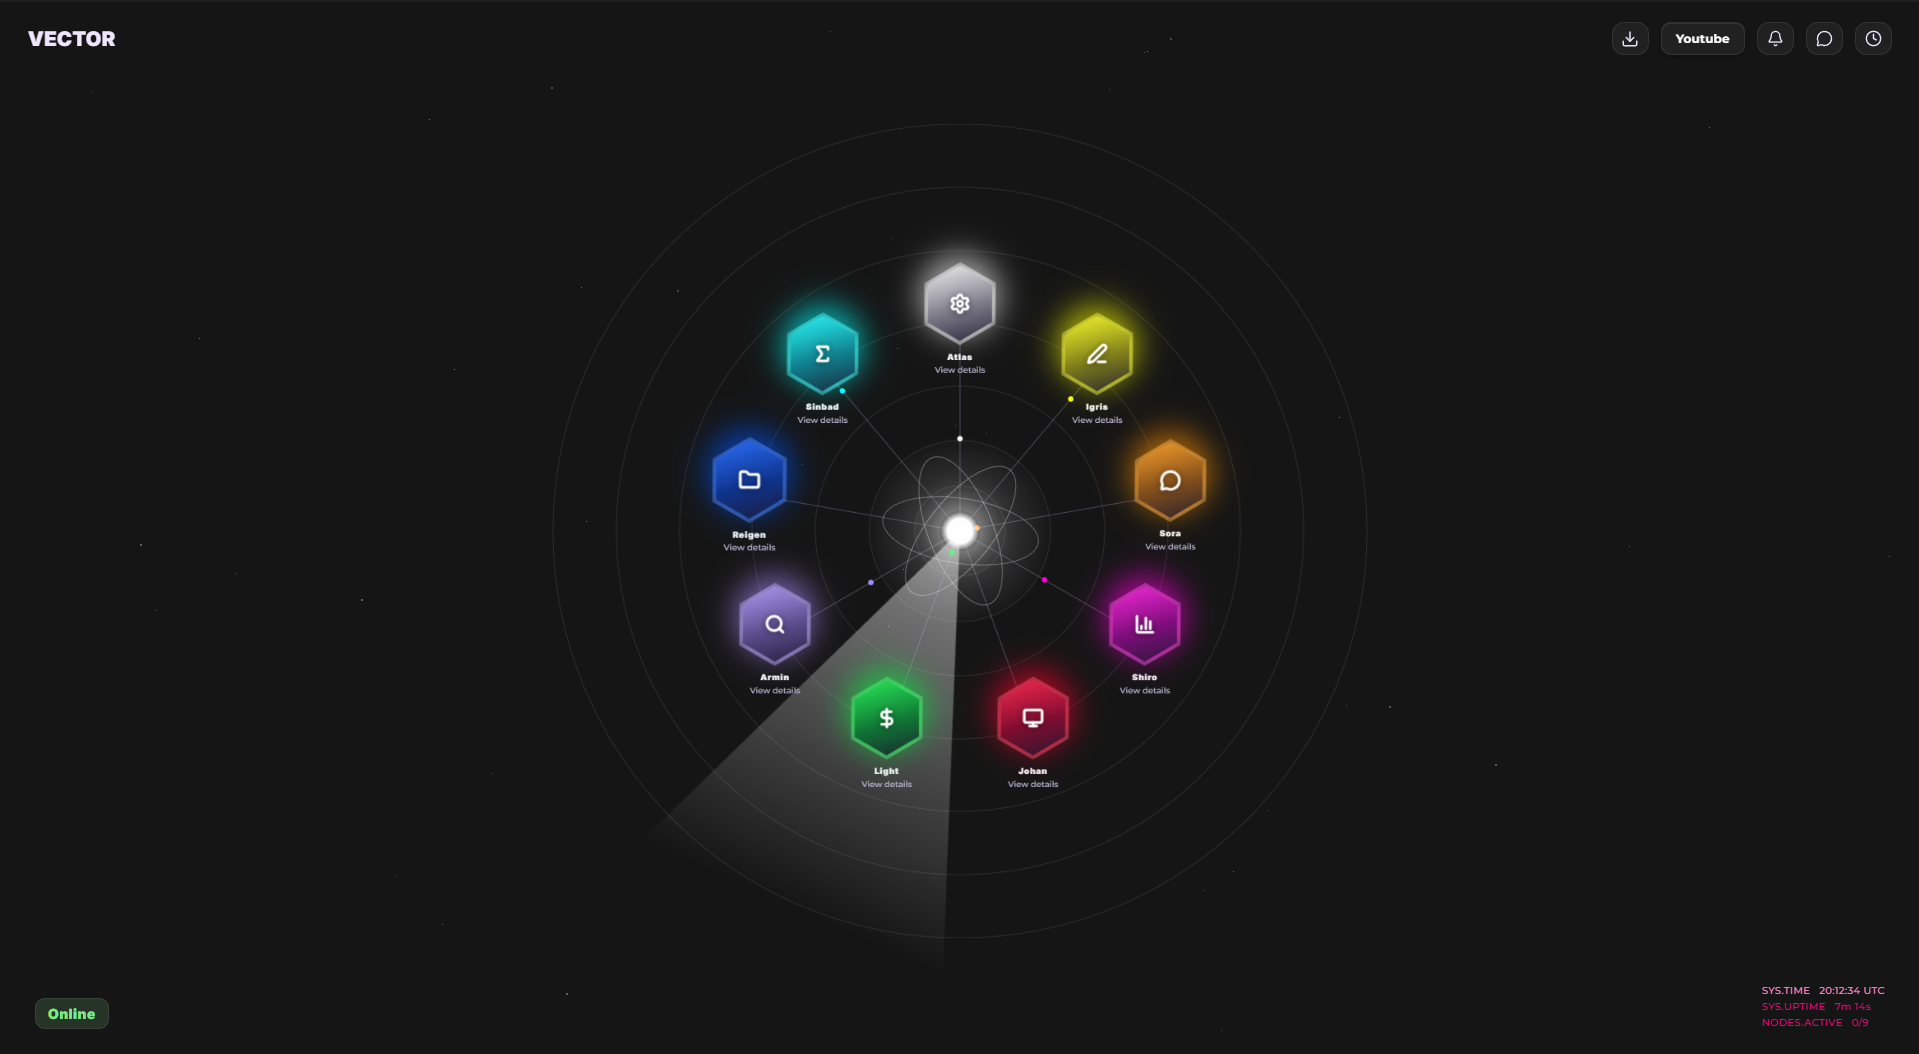
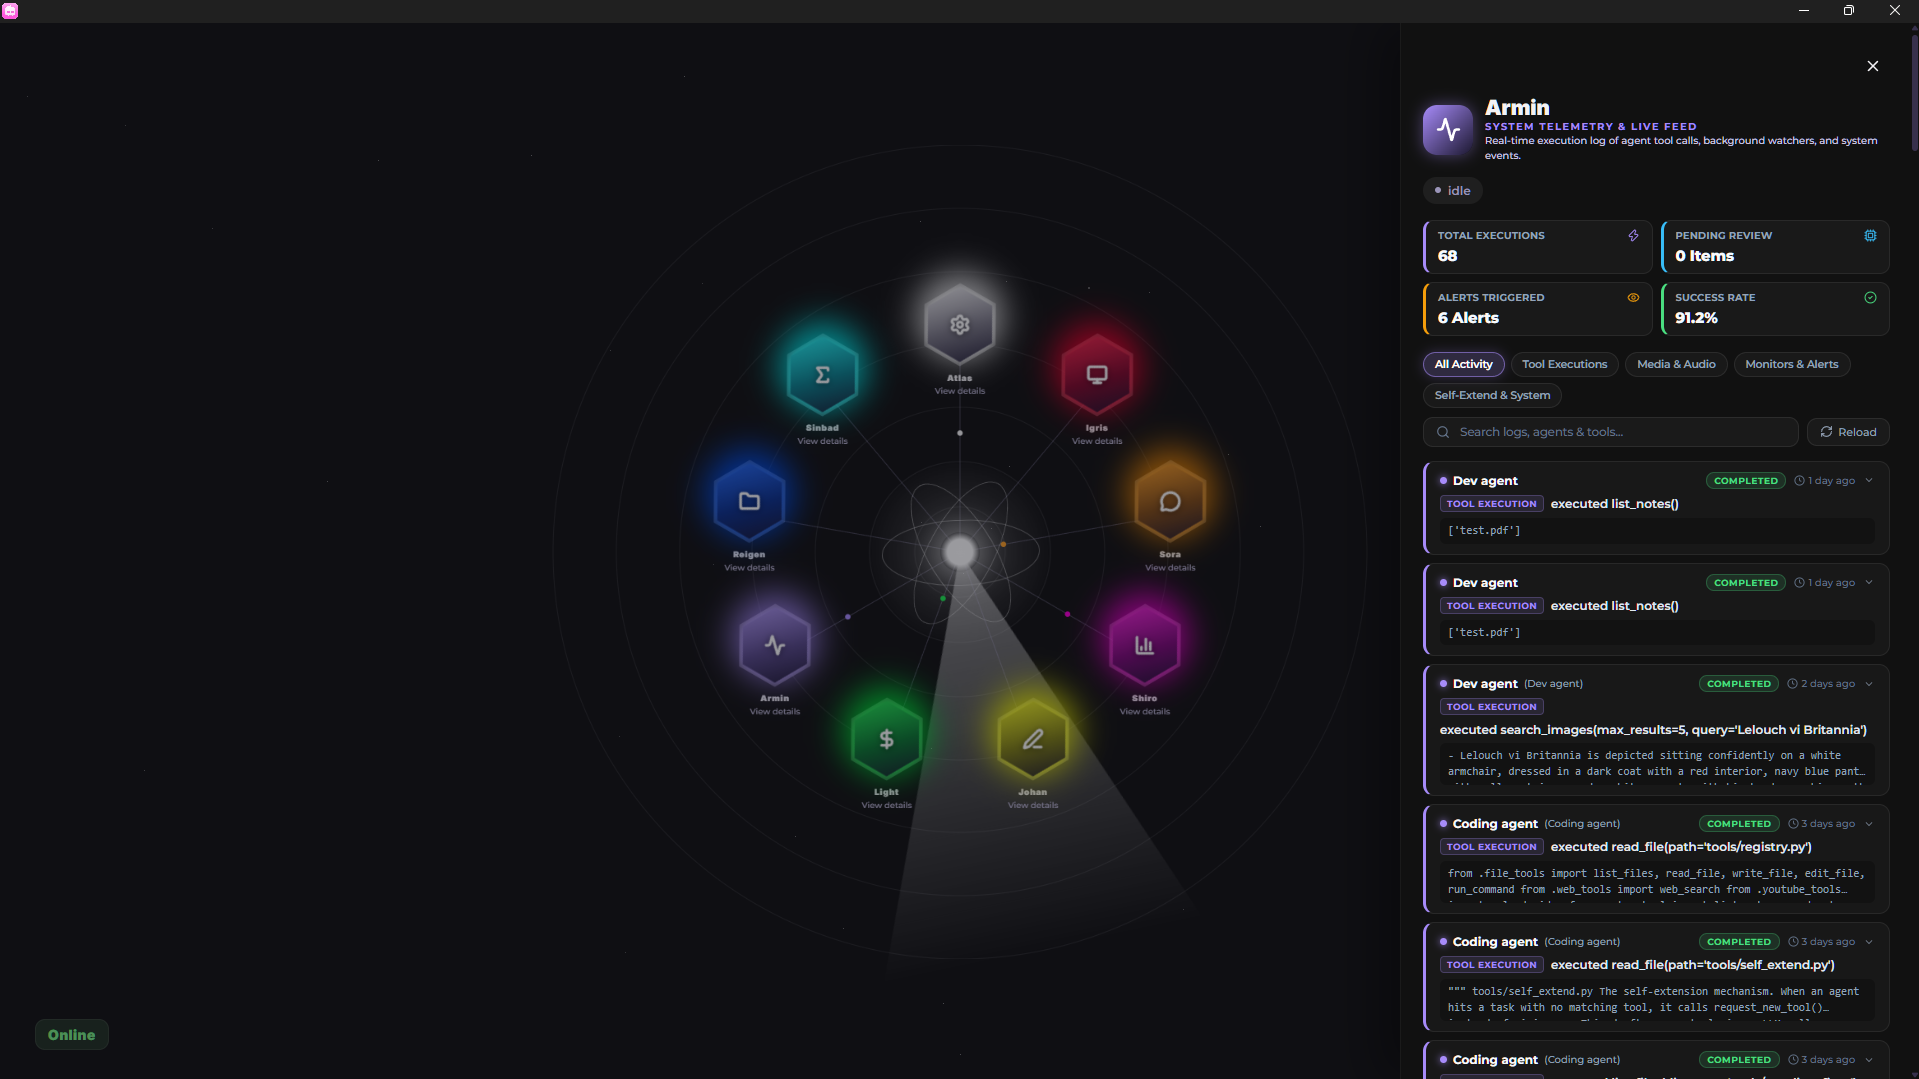
coming soon to vector

diff --git a/src/pages/Work.jsx b/src/pages/Work.jsx
@@ -68,54 +68,55 @@ export default function Work() {
 
         <div className="work-grid">
           {PROJECTS.map((project) => {
-     const isVectorProject = ['Vector', 'Peppermint'].includes(project.name);
+  const hasRealContent = ['Vector', 'Peppermint'].includes(project.name);
+  const isLinkable = ['Peppermint'].includes(project.name);
 
-            return (
-              <div
-                key={project.name}
-                className={`work-tile ${isVectorProject ? 'work-tile-vector' : 'work-tile-skeleton'}`}
-              >
-                {isVectorProject ? (
-                  <div
-                    className="work-tile-image"
-                    style={{ backgroundImage: `url(${project.image})` }}
-                  />
-                ) : (
-                  <div className="work-tile-image work-skeleton-image" aria-hidden="true">
-                    <span className="work-skeleton-block work-skeleton-block-lg" />
-                    <span className="work-skeleton-block work-skeleton-block-md" />
-                    <span className="work-skeleton-block work-skeleton-block-sm" />
-                  </div>
-                )}
+  return (
+    <div
+      key={project.name}
+      className={`work-tile ${hasRealContent ? 'work-tile-vector' : 'work-tile-skeleton'}`}
+    >
+      {hasRealContent ? (
+        <div
+          className="work-tile-image"
+          style={{ backgroundImage: `url(${project.image})` }}
+        />
+      ) : (
+        <div className="work-tile-image work-skeleton-image" aria-hidden="true">
+          <span className="work-skeleton-block work-skeleton-block-lg" />
+          <span className="work-skeleton-block work-skeleton-block-md" />
+          <span className="work-skeleton-block work-skeleton-block-sm" />
+        </div>
+      )}
 
-                <div className="work-tile-info">
-                  <div className="work-tile-text">
-                    <p className={`work-tile-name ${!isVectorProject ? 'is-placeholder' : ''}`}>
-                      {project.name}
-                    </p>
-                    <p className={`work-tile-tech ${!isVectorProject ? 'is-placeholder' : ''}`}>
-                      {project.tech}
-                    </p>
-                  </div>
+      <div className="work-tile-info">
+        <div className="work-tile-text">
+          <p className={`work-tile-name ${!hasRealContent ? 'is-placeholder' : ''}`}>
+            {project.name}
+          </p>
+          <p className={`work-tile-tech ${!hasRealContent ? 'is-placeholder' : ''}`}>
+            {project.tech}
+          </p>
+        </div>
 
-                  {isVectorProject ? (
-                    <a
-                      className="work-tile-visit"
-                      href={project.url}
-                      target="_blank"
-                      rel="noopener noreferrer"
-                      onClick={(e) => e.stopPropagation()}
-                    >
-                      Visit site
-                      <ArrowRight size={13} />
-                    </a>
-                  ) : (
-                    <span className="work-tile-placeholder">Coming soon</span>
-                  )}
-                </div>
-              </div>
-            )
-          })}
+        {isLinkable ? (
+          <a
+            className="work-tile-visit"
+            href={project.url}
+            target="_blank"
+            rel="noopener noreferrer"
+            onClick={(e) => e.stopPropagation()}
+          >
+            Visit site
+            <ArrowRight size={13} />
+          </a>
+        ) : (
+          <span className="work-tile-placeholder">Coming soon</span>
+        )}
+      </div>
+    </div>
+  )
+})}
         </div>
       </div>
     </section>
